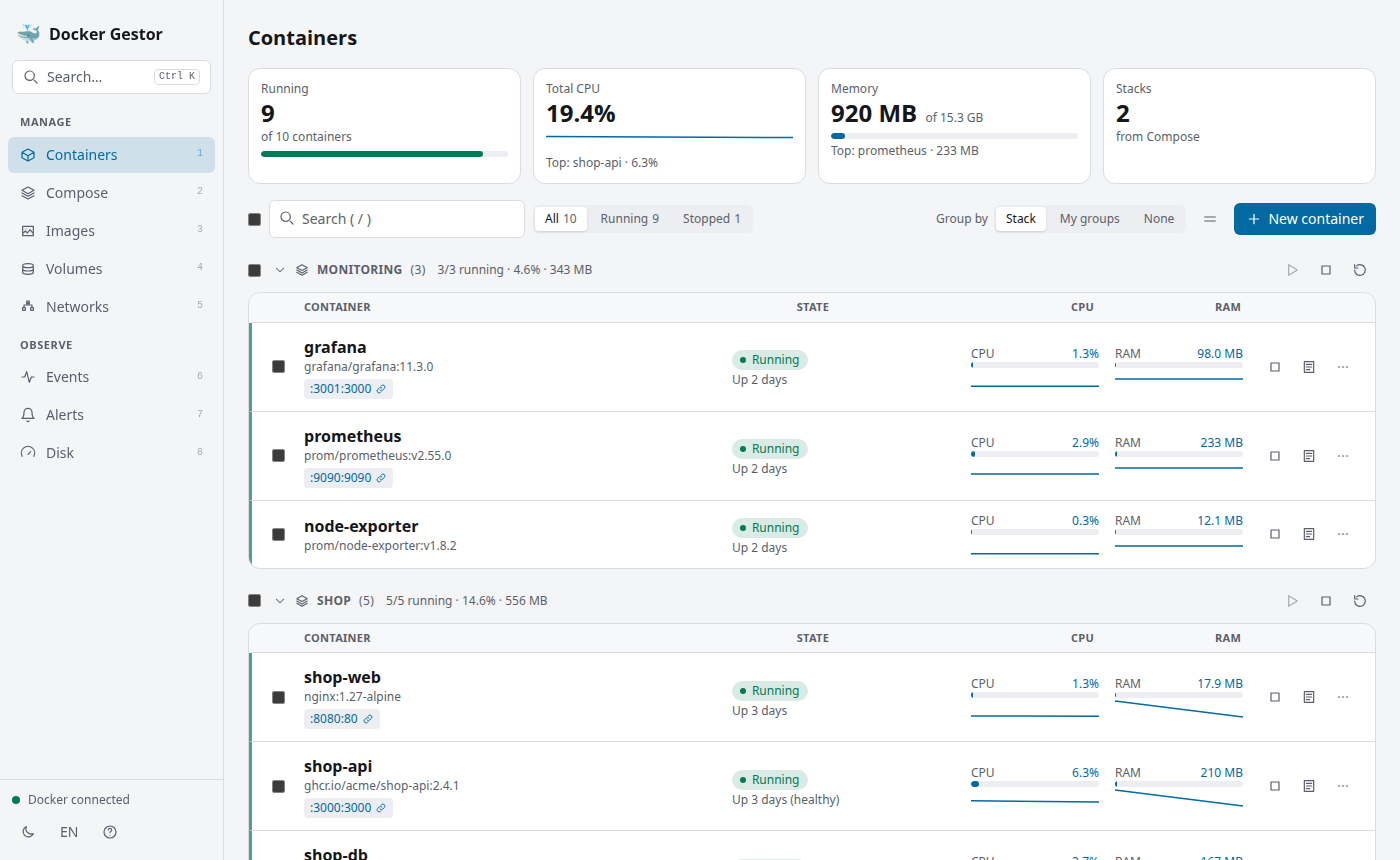
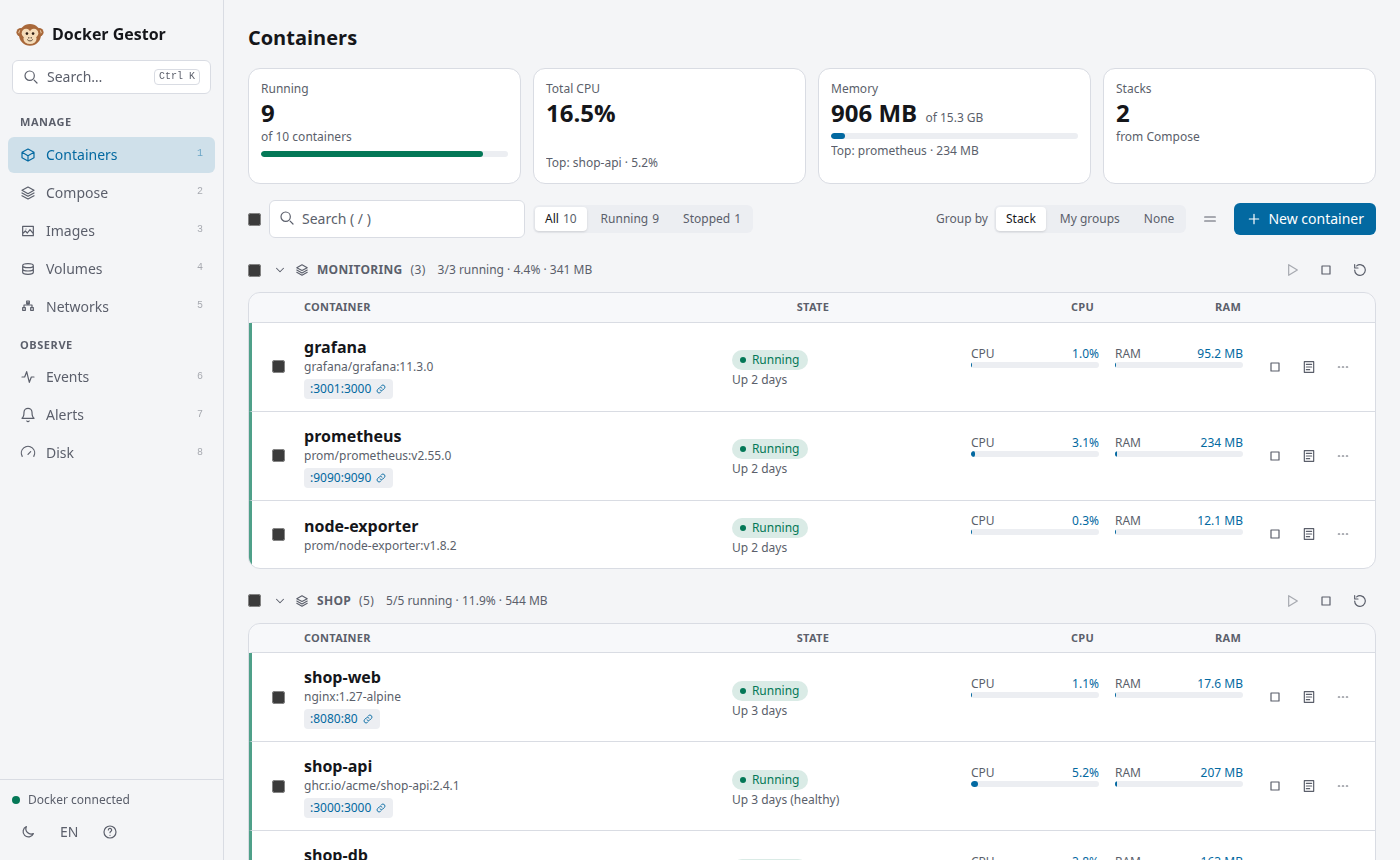
New brand: a monkey replaces the whale
One drawing (src/app/monkey.mjs) now generates the sidebar logo, the favicon,
the README logo, the social preview and the tray icons, so they cannot drift.
In the tray the monkey takes the status colour (green / amber / grey).
Screenshots regenerated against the mock Docker.

diff --git a/src/app/page.tsx b/src/app/page.tsx
@@ -3,6 +3,7 @@ import dynamic from "next/dynamic";
 import { useCallback, useEffect, useMemo, useRef, useState } from "react";
 import { api, post, postStream, bytes, ago, isMutedNow, type Mute } from "./format";
 import { emptySeries, hostMemory, pushSeries, sortContainers, topConsumer, type Series, type SeriesStore } from "./metrics-core.mjs";
+import { Logo } from "./Logo";
 import { useT, setLang, hasKey, type Key } from "./i18n";
 import { planMove } from "../lib/groups-core.mjs";
 import { Badge, Btn, Card, Chips, Empty, Icon, ListSkeleton, Menu, Meter, Modal, SearchBox, Spark, Spinner, UIProvider, useUI } from "./ui";
@@ -256,7 +257,7 @@ function App() {
   return (
     <div className="mx-auto flex min-h-screen max-w-[88rem] flex-col md:flex-row">
       <aside className="shrink-0 border-b border-line md:sticky md:top-0 md:h-screen md:w-56 md:border-b-0 md:border-r">
-        <div className="flex items-center gap-2 px-4 py-3 md:pb-3 md:pt-5"><span className="text-xl" aria-hidden>🐳</span><h1 className="font-bold">Docker Gestor</h1>
+        <div className="flex items-center gap-2 px-4 py-3 md:pb-3 md:pt-5"><Logo className="size-7 shrink-0" /><h1 className="font-bold">Docker Gestor</h1>
           <button onClick={() => setPalette(true)} aria-label={t("pal_trigger")} className="ml-auto flex size-8 items-center justify-center rounded-md text-muted hover:bg-surface2 hover:text-fg md:hidden"><Icon name="search" /></button></div>
         <div className="hidden px-3 pb-2 md:block">
           <button onClick={() => setPalette(true)} className="flex w-full items-center gap-2 rounded-md border border-line bg-surface px-2.5 py-1.5 text-left text-sm text-muted transition hover:border-accent/50 hover:text-fg">

diff --git a/src/app/Logo.tsx b/src/app/Logo.tsx
@@ -1,0 +1,16 @@
+import { BRAND, SHAPES } from "./monkey.mjs";
+
+/** The Docker Gestor monkey, drawn from the same shapes as the favicon and the tray icons. */
+export function Logo({ className = "" }: { className?: string }) {
+  return (
+    <svg viewBox="0 0 32 32" className={className} aria-hidden="true">
+      {SHAPES.map((s, i) => {
+        const c = BRAND[s.role as keyof typeof BRAND];
+        if (s.t === "circle") return <circle key={i} cx={s.cx as number} cy={s.cy as number} r={s.r as number} fill={c} />;
+        if (s.t === "ellipse") return <ellipse key={i} cx={s.cx as number} cy={s.cy as number} rx={s.rx as number} ry={s.ry as number} fill={c} />;
+        const cx = s.cx as number, cy = s.cy as number, r = s.r as number, dy = 2, dx = Math.sqrt(r * r - dy * dy);
+        return <path key={i} d={`M${cx - dx} ${cy + dy}A${r} ${r} 0 0 0 ${cx + dx} ${cy + dy}`} fill="none" stroke={c} strokeWidth={s.w as number} strokeLinecap="round" />;
+      })}
+    </svg>
+  );
+}

diff --git a/CHANGELOG.md b/CHANGELOG.md
@@ -4,6 +4,9 @@ All notable changes to this project are documented here. The format follows [Kee
 
 ## [Unreleased]
 
+### Changed
+- **New brand: a monkey** replaces the whale emoji. One drawing (`src/app/monkey.mjs`) generates the sidebar logo, the favicon (`src/app/icon.svg`), the README logo (`docs/img/logo.svg`), the social preview and the tray icons (`node tray/make-icons.mjs`). In the tray the monkey takes the status colour (green / amber / grey); the app and its name are unchanged.
+
 ### Added
 - **Tray icon** (optional): `npm run tray:install` puts a green / amber / grey icon in the system tray and starts it with your session; `npm run tray:uninstall` removes it. Menu: *Open Docker Gestor*, containers running, alerts line, *N new alerts — open*, *Silence all alerts for 1 hour* / *Lift the silence*, and on Linux *Start / Restart / Stop service* for the systemd user service. In Spanish or English by system locale; one icon per session; it only talks to the local API and `systemctl --user`.
 - **Silence everything** (`kind: "all"`): one silence that covers every container and stack, including ones created later. Available in **Alerts → Silenced** and from the tray icon; `POST` / `DELETE /api/alerts/mute` take `{ "kind": "all" }` with no name.

diff --git a/README.md b/README.md
@@ -1,6 +1,6 @@
 <div align="center">
 
-# 🐳 Docker Gestor
+# <img src="docs/img/logo.svg" alt="" width="40" align="absmiddle"> Docker Gestor
 
 **A lightweight, local web dashboard for Docker — in about 55 MB of RAM.**
 
